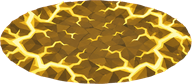
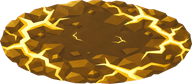
fix: quiet the center of electric_field so a summon reads on it
The shipped electric_field tiled bright arc cracks evenly across the
whole ellipse, so a summon standing in the middle fought the pattern
instead of reading against it. Regenerated with the arcs pushed into
the outer third and the middle third left as mostly bare scorched
ground with only two or three short residual sparks. Composited
RockGolem.png over both versions to confirm the silhouette reads
clearly against the new center. Same 192x84 size, RGBA, transparent
corners, .meta untouched.

diff --git a/.art/PRODUCTION-STATUS.md b/.art/PRODUCTION-STATUS.md
@@ -73,7 +73,7 @@
 | `BombSprite.png`, `BombSpriteBomb.png` | 클라이언트 PR (이슈 #679) | 222x256 / 231x256 RGBA. 채색 그림체에서 master-v2 로 재작업. 도화선 불꽃을 양쪽 다 금색으로 맞췄다 |
 | `explode.png` | 클라이언트 PR (이슈 #682) | 841x769 RGBA. 마법 폭발/실패 표시. 남색-보라 결정 파편 다발, 가운데 비움, 원본의 분홍·보라 정체성은 파편 두 개에 악센트로 남김. green 키 제거, 네 모서리 alpha 0 |
 | `hit_effect.png` | 클라이언트 PR (이슈 #682) | 771x700 RGBA. 피격 표시, 8방향 쐐기 방사형 파편, 가운데 비움. magenta 키 제거, 네 모서리 alpha 0 |
-| `electric_field.png` | 클라이언트 이슈 #681 재작업 검수 | 192x84 RGBA. 번개 정령 팔레트, 바닥 전체를 덮는 균열·아크 패턴. 테두리·원반·중앙 표식이 있던 앞선 시도는 아이템처럼 보여 반려했다 |
+| `electric_field.png` | 클라이언트 이슈 #681 재작업 검수 | 192x84 RGBA. 번개 정령 팔레트, 굵은 아크 서너 줄기가 타원 바깥쪽 1/3에 몰리고 가운데 1/3은 거의 맨 그을린 땅. 소환수 스프라이트를 얹어 실루엣이 읽히는지 확인했다 |
 | `fire_field.png` | 클라이언트 이슈 #681 재작업 검수 | 192x68 RGBA. 지옥불 팔레트, 그을린 땅에서 솟은 불꽃이 타원 전체를 덮는다. 테두리가 가장 높고 중앙으로 갈수록 낮아져 소환수 자리가 남는다 |
 | `leaf_field.png` | 클라이언트 이슈 #681 재작업 검수 | 192x79 RGBA. 자연 정령 팔레트, 땅에서 자란 풀잎이 타원 전체를 덮는다. 테두리가 가장 높고 중앙으로 갈수록 낮아져 소환수 자리가 남는다 |
 | `water_field.png` | 클라이언트 이슈 #681 재작업 검수 | 192x69 RGBA. 물 슬라임 팔레트, 물에 잠긴 얕은 웅덩이가 타원 전체를 덮는다. 물결은 테두리에 몰리고 중앙은 잔잔하다 |
